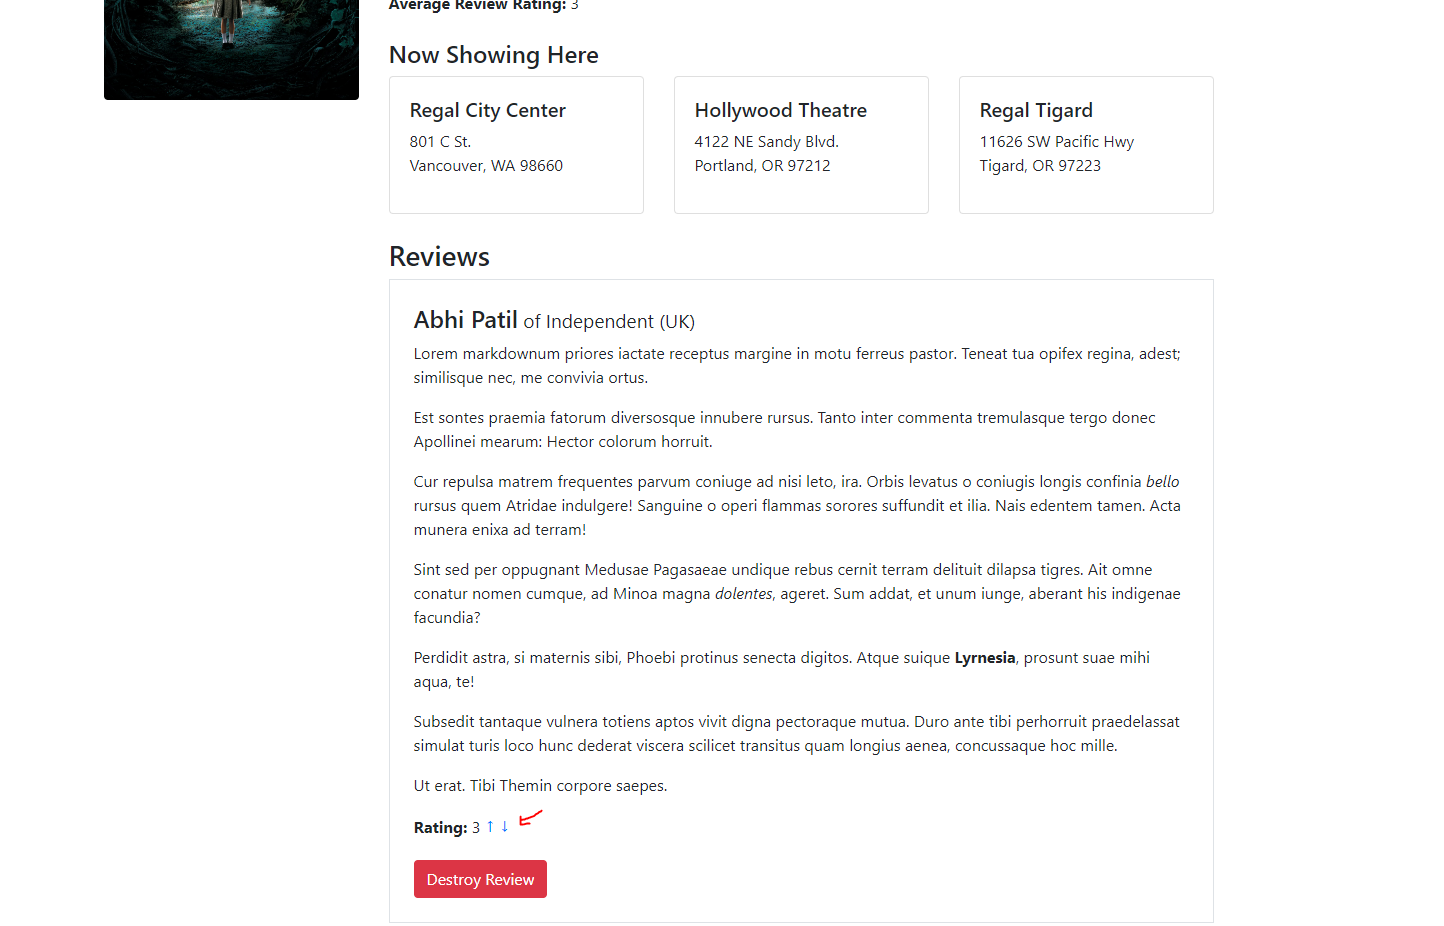
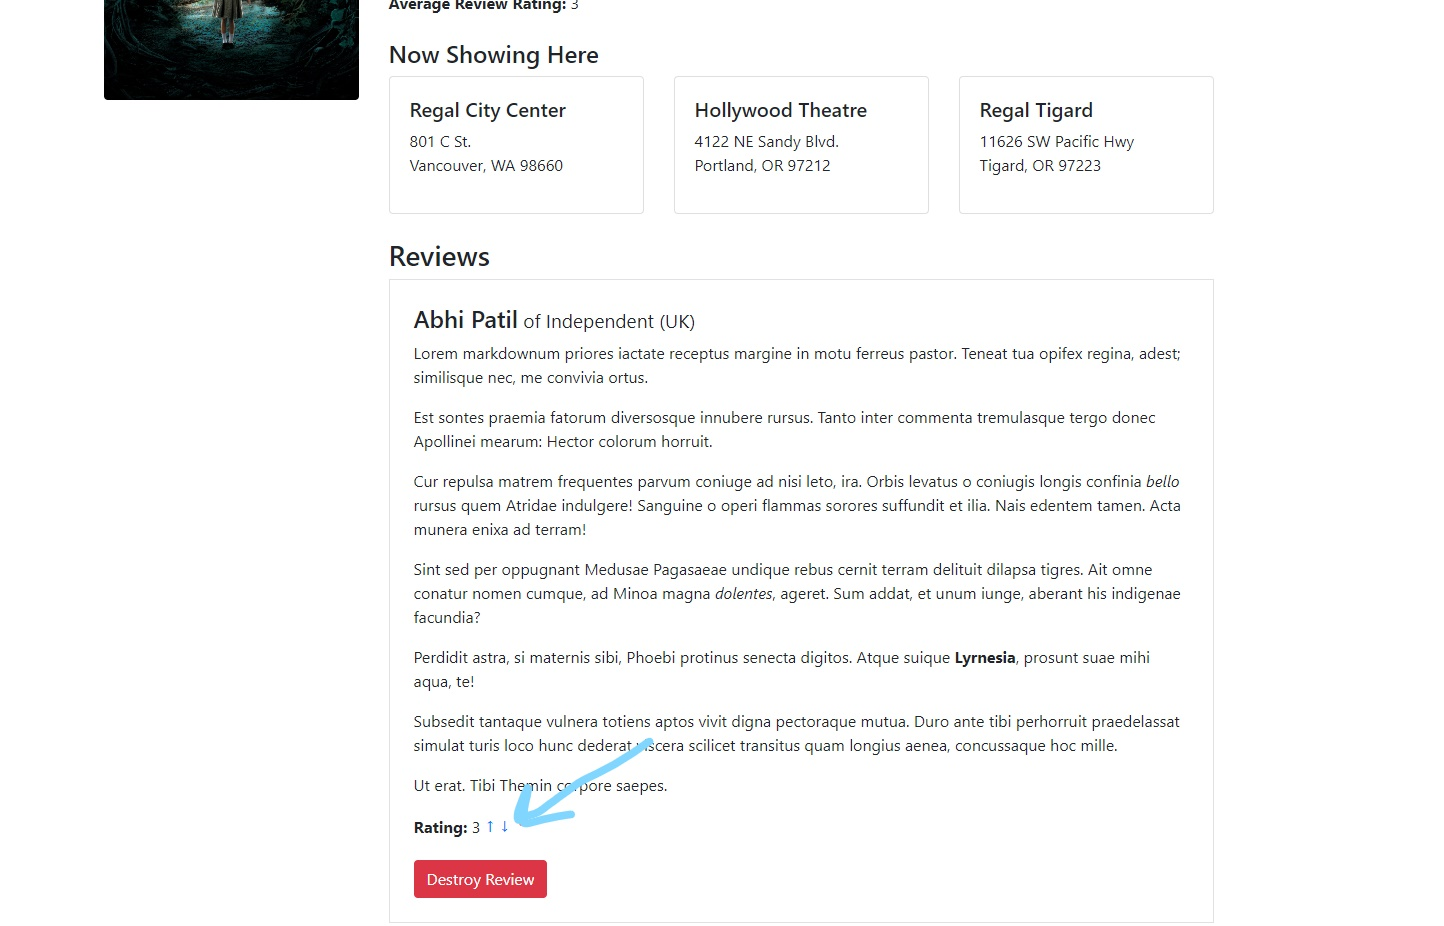
updated readme disabled delete review button

diff --git a/frontend/src/movie/Review.js b/frontend/src/movie/Review.js
@@ -47,9 +47,9 @@ function Review({ review, deleteReview, setReviewScore }) {
         </button>
       </p>
 
-      <button className="btn btn-danger" onClick={() => deleteReview(review)}>
+      {/* <button className="btn btn-danger" onClick={() => deleteReview(review)}>
         Destroy Review
-      </button>
+      </button> */}
     </section>
   );
 }

diff --git a/README.md b/README.md
@@ -1,7 +1,38 @@
 # WeLoveMovies
 backend / frontend, Render deployed, React, Node, Express, RESTful API, PostgreSQL, Knex
 
-### Please note: The site will have slow load times!
+## Please note: The site will have slow load times!
 
 The site is deployed for free on Render with database support hosted on ElephantSQL, so load times can be slow. Navigating to either the All Movies tab or the All Theaters Tab in the upper left hand corner will usually speed up the processes. Users can click on the WeLoveMovies text in the upper left-hand corner to navigate back to the home page.   
 
+---
+
+## Homepage 
+
+User can click on the img of the movie to find movie information. The header has three links, WeLoveMovies, All Movies, All Theaters.
+
+![frontPage](/readme_images/welovemovies_frontPage.PNG)
+
+## Movie Information Page
+
+User can find a movie description and location of theaters where movie is being show. The user can scroll down to find reviews.
+
+![moviePage](/readme_images/welovemovies_moviePage.PNG)
+
+## Movie Reviews and User Ratings
+
+Users can scroll to read reviews and provide up and down votes on each review by clicking the small blue arrows pointing either up or down.
+
+![movieRatingReview](/readme_images/welovemovies_reviewWithRating.PNG)
+
+## All Movies Tab
+
+This will list all the movies their descriptions and a button to see more information.
+
+![allMovies](/readme_images/welovemovies_AllMoviesTab.PNG)
+
+## All Theaters Tab
+
+All Theaters tab will list all the theaters and display movies at each theater.
+
+![allTheaters](/readme_images/welovemovies_AllTheatersTab.PNG)
